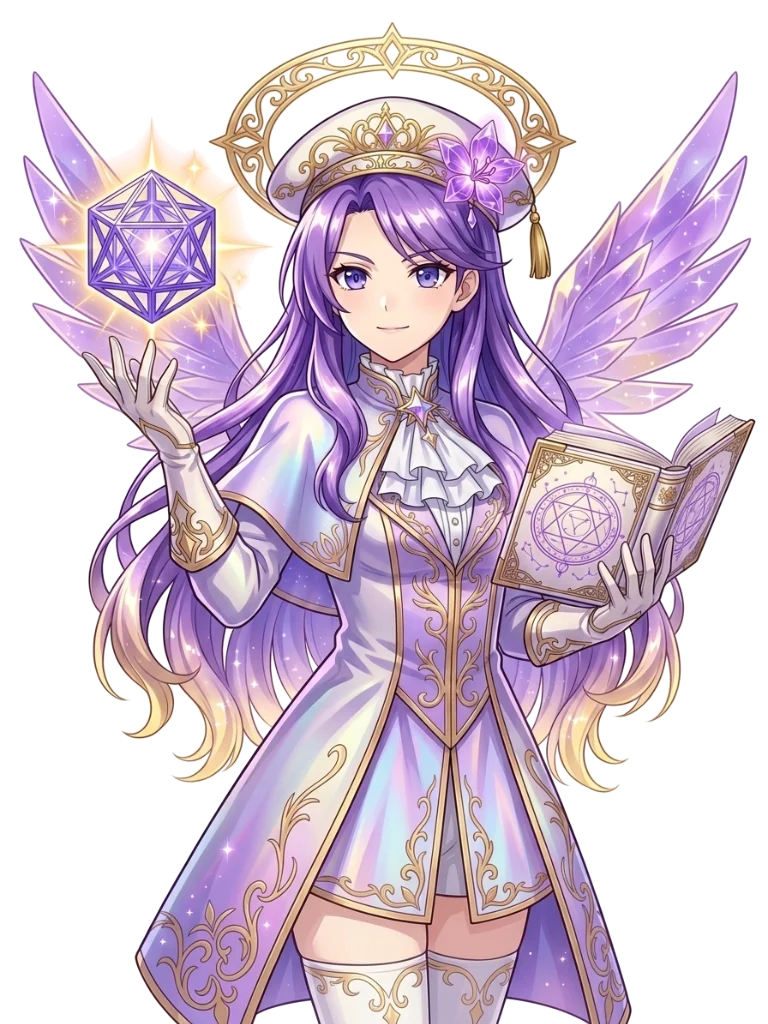
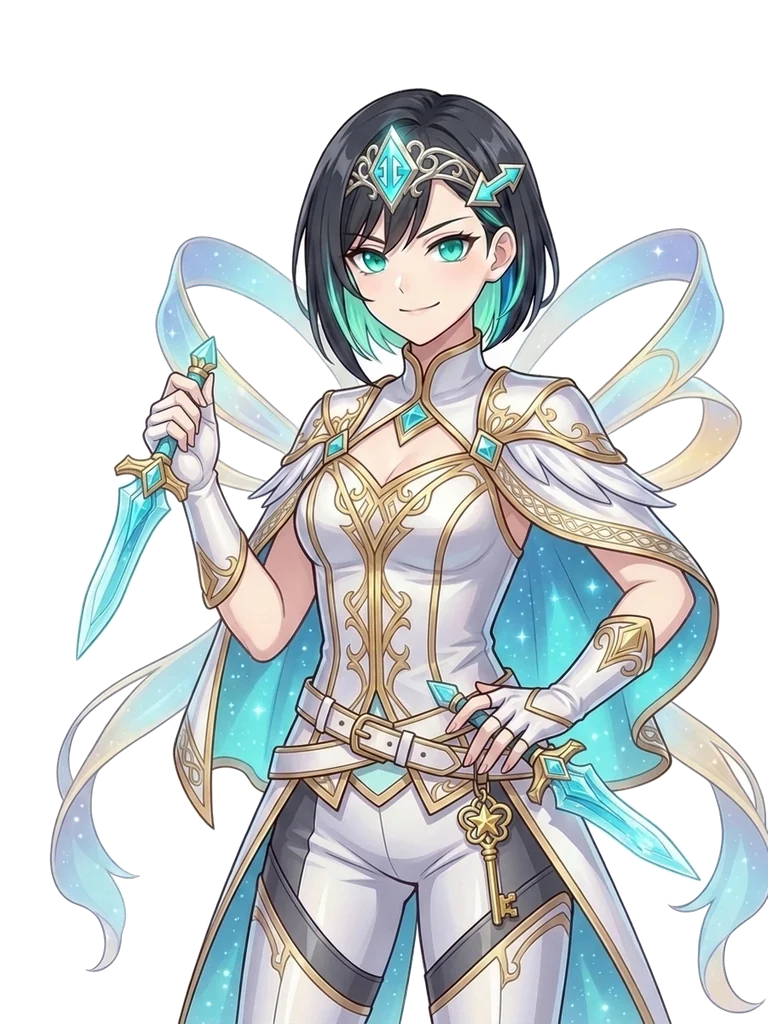
Replace c08 with Cursor girl and enable workers_dev

diff --git a/app.js b/app.js
@@ -10,7 +10,7 @@
     { id: 'c05', name: 'Grok 娘', title: '炎斧骑士' },
     { id: 'c06', name: 'Qwen 娘', title: '青花剑姬' },
     { id: 'c07', name: 'Kimi 娘', title: '星夜琴师' },
-    { id: 'c08', name: 'GLM 娘', title: '魔方学者' },
+    { id: 'c08', name: 'Cursor 娘', title: '光标暗影' },
     { id: 'c09', name: '豆包娘', title: '赤枪先锋' },
     { id: 'c10', name: 'Mistral 娘', title: '金羽剑圣' },
     { id: 'c11', name: 'Llama 娘', title: '银风游侠' },
@@ -492,7 +492,7 @@
     const demoNames = [
       '白龙守望者_Luo', '凌晨三点写Codex', 'Claude向日葵书童', '星穹代码猫',
       'GPT的银发发卡', 'Grok战斧狂想', 'Qwen青花剑客', 'Kimi夜曲不熬夜',
-      'GLM魔方炼丹师', '豆包红巾盾卫', 'Mistral法棍骑士', 'Llama银风游侠',
+      'Cursor补全侠', '豆包红巾盾卫', 'Mistral法棍骑士', 'Llama银风游侠',
       'Suno竖琴缪斯', '纯文字路人甲', '只吹彩虹屁乙', '忘记传图丙',
       '双倍好运小鲸鱼', '四万粉铁粉老王'
     ];
@@ -505,7 +505,7 @@
       'Grok 娘重斧造型太帅了吧！附高清觉醒卡面，希望抽中写个小工具～',
       '带图防吞评！青花剑姬 Qwen 娘质感无敌，四万粉冲向十万粉！！',
       '来接欧气啦～刚好需要大上下文写工作流，附上烫金 Kimi 娘票根！',
-      'GLM 娘正十二面体星芒绝了！配一句正常聊天防止阿 B 吞评，祝视频大爆！',
+      'Cursor 娘青光双刃觉醒绝了！配一句正常聊天防止阿 B 吞评，祝视频大爆！',
       '已关注已三连！豆包娘冲冲冲，希望把一个月 Codex Pro 100 抱回家！',
       'Mistral 娘法棍圣剑报道！这张觉醒图必须塞进评论区，冲鸭四万粉～',
       'Llama 娘银风游侠到手，附图防吞评 + 许愿 Codex！',

diff --git a/README.md b/README.md
@@ -26,4 +26,4 @@ node local-server.mjs
 3. 回到网页输入 BV 号点「✦ 开始抽奖」即可自动拉取并开奖。
 
 ## 12 位 AI 娘完整名单（第一期 · Issue 01）
-`01 鲸鱼娘` · `02 Claude 娘` · `03 GPT 娘` · `04 Gemini 娘` · `05 Grok 娘` · `06 Qwen 娘` · `07 Kimi 娘` · `08 GLM 娘` · `09 豆包娘` · `10 Mistral 娘` · `11 Llama 娘` · `12 Suno 娘`
+`01 鲸鱼娘` · `02 Claude 娘` · `03 GPT 娘` · `04 Gemini 娘` · `05 Grok 娘` · `06 Qwen 娘` · `07 Kimi 娘` · `08 Cursor 娘` · `09 豆包娘` · `10 Mistral 娘` · `11 Llama 娘` · `12 Suno 娘`
